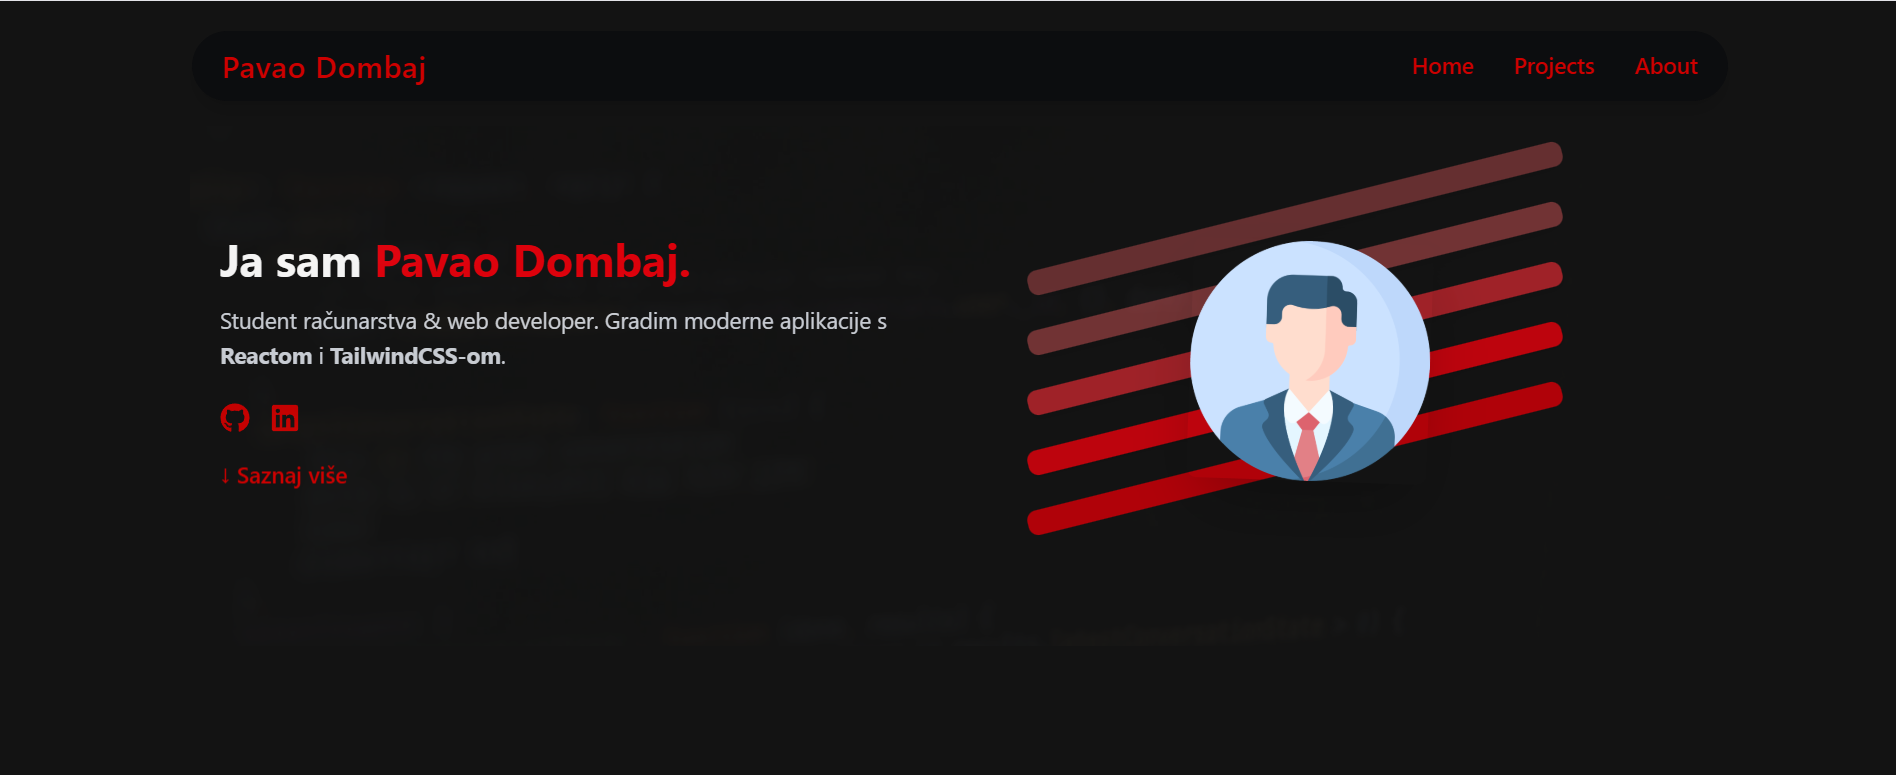
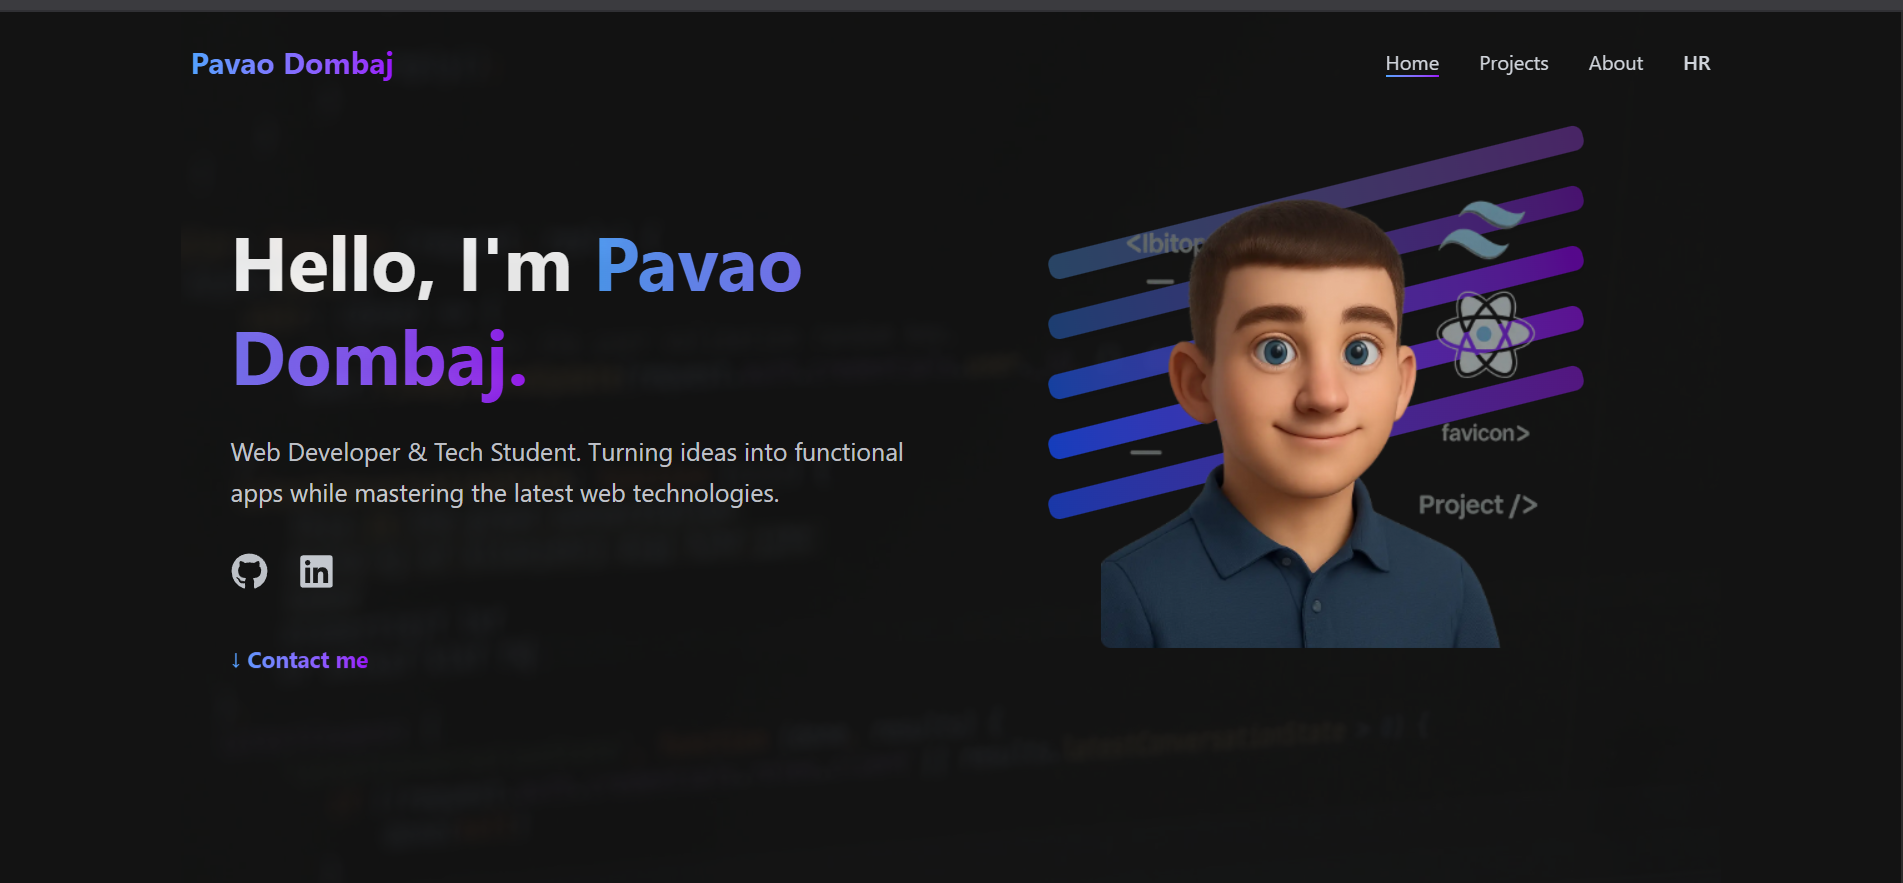
mobile UI improvments, new images

diff --git a/src/components/Hero.jsx b/src/components/Hero.jsx
@@ -1,125 +1,239 @@
-import React from "react";
-import {
-  FaGithub,
-  FaLinkedin,
-  FaTwitter,
-  FaReact,
-  FaNode,
-} from "react-icons/fa";
+import React, { useState, useEffect, useRef } from "react";
+import { FaGithub, FaLinkedin } from "react-icons/fa";
 import { motion } from "framer-motion";
 import profile from "../assets/avatar.webp";
-import { useEffect, useRef } from "react";
 import { useLanguage } from "../context/LanguageContext";
 
 const Hero = () => {
   const videoRef = useRef(null);
   const { t } = useLanguage();
+  const [isMobile, setIsMobile] = useState(window.innerWidth < 768);
 
+  // Handle resize events
+  useEffect(() => {
+    const handleResize = () => {
+      setIsMobile(window.innerWidth < 768);
+    };
+    
+    window.addEventListener('resize', handleResize);
+    return () => window.removeEventListener('resize', handleResize);
+  }, []);
+
+  // Set video playback rate
   useEffect(() => {
     if (videoRef.current) {
       videoRef.current.playbackRate = 0.45;
     }
   }, []);
 
+  // Animation variants
+  const containerVariants = {
+    hidden: { opacity: 0 },
+    visible: { 
+      opacity: 1,
+      transition: { 
+        staggerChildren: 0.2,
+        delayChildren: 0.3
+      }
+    }
+  };
+  
+  const itemVariants = {
+    hidden: { y: 20, opacity: 0 },
+    visible: { y: 0, opacity: 1 }
+  };
+
   return (
-    <section id="home" className="relative w-full min-h-screen flex items-center justify-center px-6">
-      {/* VIDEO POZADINA */}
-      <div className="absolute inset-0 pointer-events-none">
+    <section id="home" className="relative w-full min-h-screen flex items-center justify-center px-4 sm:px-6">
+      {/* Background Video */}
+      <div className="absolute inset-0 pointer-events-none overflow-hidden">
         <video
           ref={videoRef}
           autoPlay
           loop
           muted
+          playsInline
           className="w-full h-full object-cover opacity-10 pointer-events-none"
         >
           <source src="/videos/e.mp4" type="video/mp4" />
         </video>
       </div>
 
-      <div className="max-w-6xl w-full grid grid-cols-1 md:grid-cols-2 gap-12 items-center py-20">
-        {/* Lijeva strana - Tekst */}
-        <div className="text-center md:text-left space-y-6">
-          <motion.h1
-            initial={{ opacity: 0, y: -50 }}
-            animate={{ opacity: 1, y: 0 }}
-            transition={{ duration: 1 }}
-            className="text-5xl md:text-6xl font-bold text-white leading-tight"
-          >
-            {t('greeting')} <span className="bg-clip-text text-transparent bg-gradient-to-r from-blue-400 to-purple-600">Pavao Dombaj.</span>
-          </motion.h1>
-
-          <motion.p
-            initial={{ opacity: 0, x: -50 }}
-            animate={{ opacity: 1, x: 0 }}
-            transition={{ duration: 1, delay: 0.3 }}
-            className="mt-4 text-xl  text-gray-300 leading-relaxed"
-          >
-            {t('role')}. {t('description')}
-          </motion.p>
-
+      {/* Mobile Design */}
+      {isMobile ? (
+        <div className="w-full max-w-md mx-auto pt-24 pb-12">
           <motion.div
-            initial={{ opacity: 0, y: 20 }}
-            animate={{ opacity: 1, y: 0 }}
-            transition={{ duration: 1, delay: 0.6 }}
-            className="mt-8 flex justify-center md:justify-start gap-6"
+            variants={containerVariants}
+            initial="hidden"
+            animate="visible"
+            className="flex flex-col items-center"
           >
-            <a
-              target="_blank"
-              rel="noopener noreferrer"
-              href="https://github.com/PavaoDombaj"
-              className="text-gray-300 text-3xl hover:text-blue-400 transition-colors duration-300"
+            {/* Profile Image - Mobile */}
+            <motion.div 
+              variants={itemVariants}
+              className="relative mb-8"
             >
-              <FaGithub />
-            </a>
-            <a
-              target="_blank"
-              rel="noopener noreferrer"
-              href="https://www.linkedin.com/in/pavao-dombaj-2b55302b5/"
-              className="text-gray-300 text-3xl hover:text-blue-400 transition-colors duration-300"
+              <img
+                src={profile}
+                alt="Pavao Dombaj"
+                className="relative w-40 h-40 object-cover rounded-full border-2 border-blue-500/30 shadow-lg shadow-blue-500/20"
+              />
+              <motion.div 
+                className="absolute -bottom-2 -right-2 bg-gradient-to-r from-blue-500 to-purple-600 rounded-full p-2 shadow-lg"
+                animate={{ scale: [1, 1.1, 1] }}
+                transition={{ duration: 2, repeat: Infinity }}
+              >
+                <div className="w-4 h-4 bg-[#0a0a0a] rounded-full"></div>
+              </motion.div>
+            </motion.div>
+
+            {/* Text Content - Mobile */}
+            <motion.h1
+              variants={itemVariants}
+              className="text-center text-4xl font-bold text-white leading-tight mb-3"
             >
-              <FaLinkedin />
-            </a>
+              {t('greeting')} <span className="block mt-1 bg-clip-text text-transparent bg-gradient-to-r from-blue-400 to-purple-600">Pavao Dombaj</span>
+            </motion.h1>
+
+            <motion.div
+              variants={itemVariants}
+              className="h-1 w-20 bg-gradient-to-r from-blue-400 to-purple-600 rounded-full my-4"
+            />
+
+            <motion.p
+              variants={itemVariants}
+              className="text-center text-lg text-gray-300 leading-relaxed mb-6 px-2"
+            >
+              {t('role')}
+            </motion.p>
+
+            <motion.p
+              variants={itemVariants}
+              className="text-center text-base text-gray-400 leading-relaxed mb-8 px-2"
+            >
+              {t('description')}
+            </motion.p>
+
+            {/* Social Icons - Mobile */}
+            <motion.div
+              variants={itemVariants}
+              className="flex justify-center gap-6 mb-10"
+            >
+              <a
+                href="https://github.com/PavaoDombaj"
+                target="_blank"
+                rel="noopener noreferrer"
+                className="text-gray-300 text-2xl hover:text-blue-400 transition-all duration-300 transform hover:scale-110"
+              >
+                <FaGithub />
+              </a>
+              <a
+                href="https://www.linkedin.com/in/pavao-dombaj-2b55302b5/"
+                target="_blank"
+                rel="noopener noreferrer"
+                className="text-gray-300 text-2xl hover:text-blue-400 transition-all duration-300 transform hover:scale-110"
+              >
+                <FaLinkedin />
+              </a>
+            </motion.div>
+
+            {/* Contact Link - Mobile (same as desktop) */}
+            <motion.a
+              variants={itemVariants}
+              href="#about"
+              className="mt-6 inline-block text-lg font-bold bg-clip-text text-transparent bg-gradient-to-r from-blue-400 to-purple-600 animate-bounce"
+            >
+              ↓ {t('contactButton')}
+            </motion.a>
           </motion.div>
-
-          <motion.a
-            href="#about"
-            initial={{ opacity: 0, y: 10 }}
-            animate={{ opacity: 1, y: 0 }}
-            transition={{ duration: 1, delay: 0.8 }}
-            className="mt-6 inline-block text-lg font-bold bg-clip-text text-transparent bg-gradient-to-r from-blue-400 to-purple-600 animate-bounce"
-          >
-            ↓ {t('contactButton')}
-          </motion.a>
         </div>
+      ) : (
+        /* Desktop Design - Keeping your original layout */
+        <div className="max-w-6xl w-full grid grid-cols-1 md:grid-cols-2 gap-12 items-center py-20">
+          {/* Left Side - Text */}
+          <div className="text-center md:text-left space-y-6">
+            <motion.h1
+              initial={{ opacity: 0, y: -50 }}
+              animate={{ opacity: 1, y: 0 }}
+              transition={{ duration: 1 }}
+              className="text-5xl md:text-6xl font-bold text-white leading-tight"
+            >
+              {t('greeting')} <span className="bg-clip-text text-transparent bg-gradient-to-r from-blue-400 to-purple-600">Pavao Dombaj.</span>
+            </motion.h1>
 
-        {/* Desna strana - Slika s efektima */}
-        <motion.div
-          initial={{ opacity: 0, scale: 0.8 }}
-          animate={{ opacity: 1, scale: 1 }}
-          transition={{ duration: 1, delay: 0.5 }}
-          className="relative flex justify-center items-center h-96"
-        >
-          {/* Dekorativne linije iza slike */}
-          <div className="absolute -top-4 left-12 w-110 h-96 flex flex-col gap-7">
-            <div className="w-full h-5 bg-gradient-to-r from-blue-400 to-purple-500 rounded-lg opacity-35 shadow-lg rotate-[-14deg]"></div>
-            <div className="w-full h-5 bg-gradient-to-r from-blue-500 to-purple-600 rounded-lg opacity-40 shadow-lg rotate-[-14deg]"></div>
-            <div className="w-full h-5 bg-gradient-to-r from-blue-600 to-purple-700 rounded-lg opacity-60 shadow-md rotate-[-14deg]"></div>
-            <div className="w-full h-5 bg-gradient-to-r from-blue-700 to-purple-800 rounded-lg opacity-80 shadow-sm rotate-[-14deg]"></div>
-            <div className="w-full h-5 bg-gradient-to-r from-blue-800 to-purple-900 rounded-lg opacity-90 rotate-[-14deg]"></div>
+            <motion.p
+              initial={{ opacity: 0, x: -50 }}
+              animate={{ opacity: 1, x: 0 }}
+              transition={{ duration: 1, delay: 0.3 }}
+              className="mt-4 text-xl text-gray-300 leading-relaxed"
+            >
+              {t('role')}. {t('description')}
+            </motion.p>
+
+            <motion.div
+              initial={{ opacity: 0, y: 20 }}
+              animate={{ opacity: 1, y: 0 }}
+              transition={{ duration: 1, delay: 0.6 }}
+              className="mt-8 flex justify-center md:justify-start gap-6"
+            >
+              <a
+                target="_blank"
+                rel="noopener noreferrer"
+                href="https://github.com/PavaoDombaj"
+                className="text-gray-300 text-3xl hover:text-blue-400 transition-colors duration-300"
+              >
+                <FaGithub />
+              </a>
+              <a
+                target="_blank"
+                rel="noopener noreferrer"
+                href="https://www.linkedin.com/in/pavao-dombaj-2b55302b5/"
+                className="text-gray-300 text-3xl hover:text-blue-400 transition-colors duration-300"
+              >
+                <FaLinkedin />
+              </a>
+            </motion.div>
+
+            <motion.a
+              href="#about"
+              initial={{ opacity: 0, y: 10 }}
+              animate={{ opacity: 1, y: 0 }}
+              transition={{ duration: 1, delay: 0.8 }}
+              className="mt-6 inline-block text-lg font-bold bg-clip-text text-transparent bg-gradient-to-r from-blue-400 to-purple-600 animate-bounce"
+            >
+              ↓ {t('contactButton')}
+            </motion.a>
           </div>
 
-          {/* Slika */}
-          <motion.img
-            src={profile}
-            alt="Pavao Dombaj"
-            initial={{ y: -10 }}
-            animate={{ y: [0, -10, 0] }}
-            transition={{ duration: 3, repeat: Infinity, ease: "easeInOut" }}
-            className="relative z-10 w-90 h-90 object-cover rounded-lg   rotate-0 hover:rotate-2 transition-transform duration-300"
-            style={{ marginTop: '-2rem' }}
-          />
-        </motion.div>
-      </div>
+          {/* Right Side - Image with Effects */}
+          <motion.div
+            initial={{ opacity: 0, scale: 0.8 }}
+            animate={{ opacity: 1, scale: 1 }}
+            transition={{ duration: 1, delay: 0.5 }}
+            className="relative flex justify-center items-center h-96"
+          >
+            {/* Decorative Lines Behind Image */}
+            <div className="absolute -top-4 left-12 w-110 h-96 flex flex-col gap-7">
+              <div className="w-full h-5 bg-gradient-to-r from-blue-400 to-purple-500 rounded-lg opacity-35 shadow-lg rotate-[-14deg]"></div>
+              <div className="w-full h-5 bg-gradient-to-r from-blue-500 to-purple-600 rounded-lg opacity-40 shadow-lg rotate-[-14deg]"></div>
+              <div className="w-full h-5 bg-gradient-to-r from-blue-600 to-purple-700 rounded-lg opacity-60 shadow-md rotate-[-14deg]"></div>
+              <div className="w-full h-5 bg-gradient-to-r from-blue-700 to-purple-800 rounded-lg opacity-80 shadow-sm rotate-[-14deg]"></div>
+              <div className="w-full h-5 bg-gradient-to-r from-blue-800 to-purple-900 rounded-lg opacity-90 rotate-[-14deg]"></div>
+            </div>
+
+            {/* Image */}
+            <motion.img
+              src={profile}
+              alt="Pavao Dombaj"
+              initial={{ y: -10 }}
+              animate={{ y: [0, -10, 0] }}
+              transition={{ duration: 3, repeat: Infinity, ease: "easeInOut" }}
+              className="relative z-10 w-90 h-90 object-cover rounded-lg rotate-0 hover:rotate-2 transition-transform duration-300"
+              style={{ marginTop: '-2rem' }}
+            />
+          </motion.div>
+        </div>
+      )}
     </section>
   );
 };

diff --git a/src/components/ProjectData.js b/src/components/ProjectData.js
@@ -32,7 +32,7 @@ This was my first major project and, although it presented a huge challenge for 
     technologies: [
       { icon: faReact, iconName: "React" },
       { icon: faNodeJs, iconName: "Node.js" },
-      { icon: faHtml5, iconName: "HTML5" },
+      { icon: faHtml5, iconName: "HTML5" }, 
       { icon: faCss3Alt, iconName: "CSS3" },
       { icon: faDatabase, iconName: "MongoDB" },
     ],
@@ -41,7 +41,7 @@ This was my first major project and, although it presented a huge challenge for 
     id: "portfolio",
     slug: "portfolio",
     images: ["/images/portfolio/1.png",
-      "/images/portfolio/2.png",
+      "/images/portfolio/2.png","/images/portfolio/3.png","/images/portfolio/4.png",
     ],
     translations: {
       hr: {
